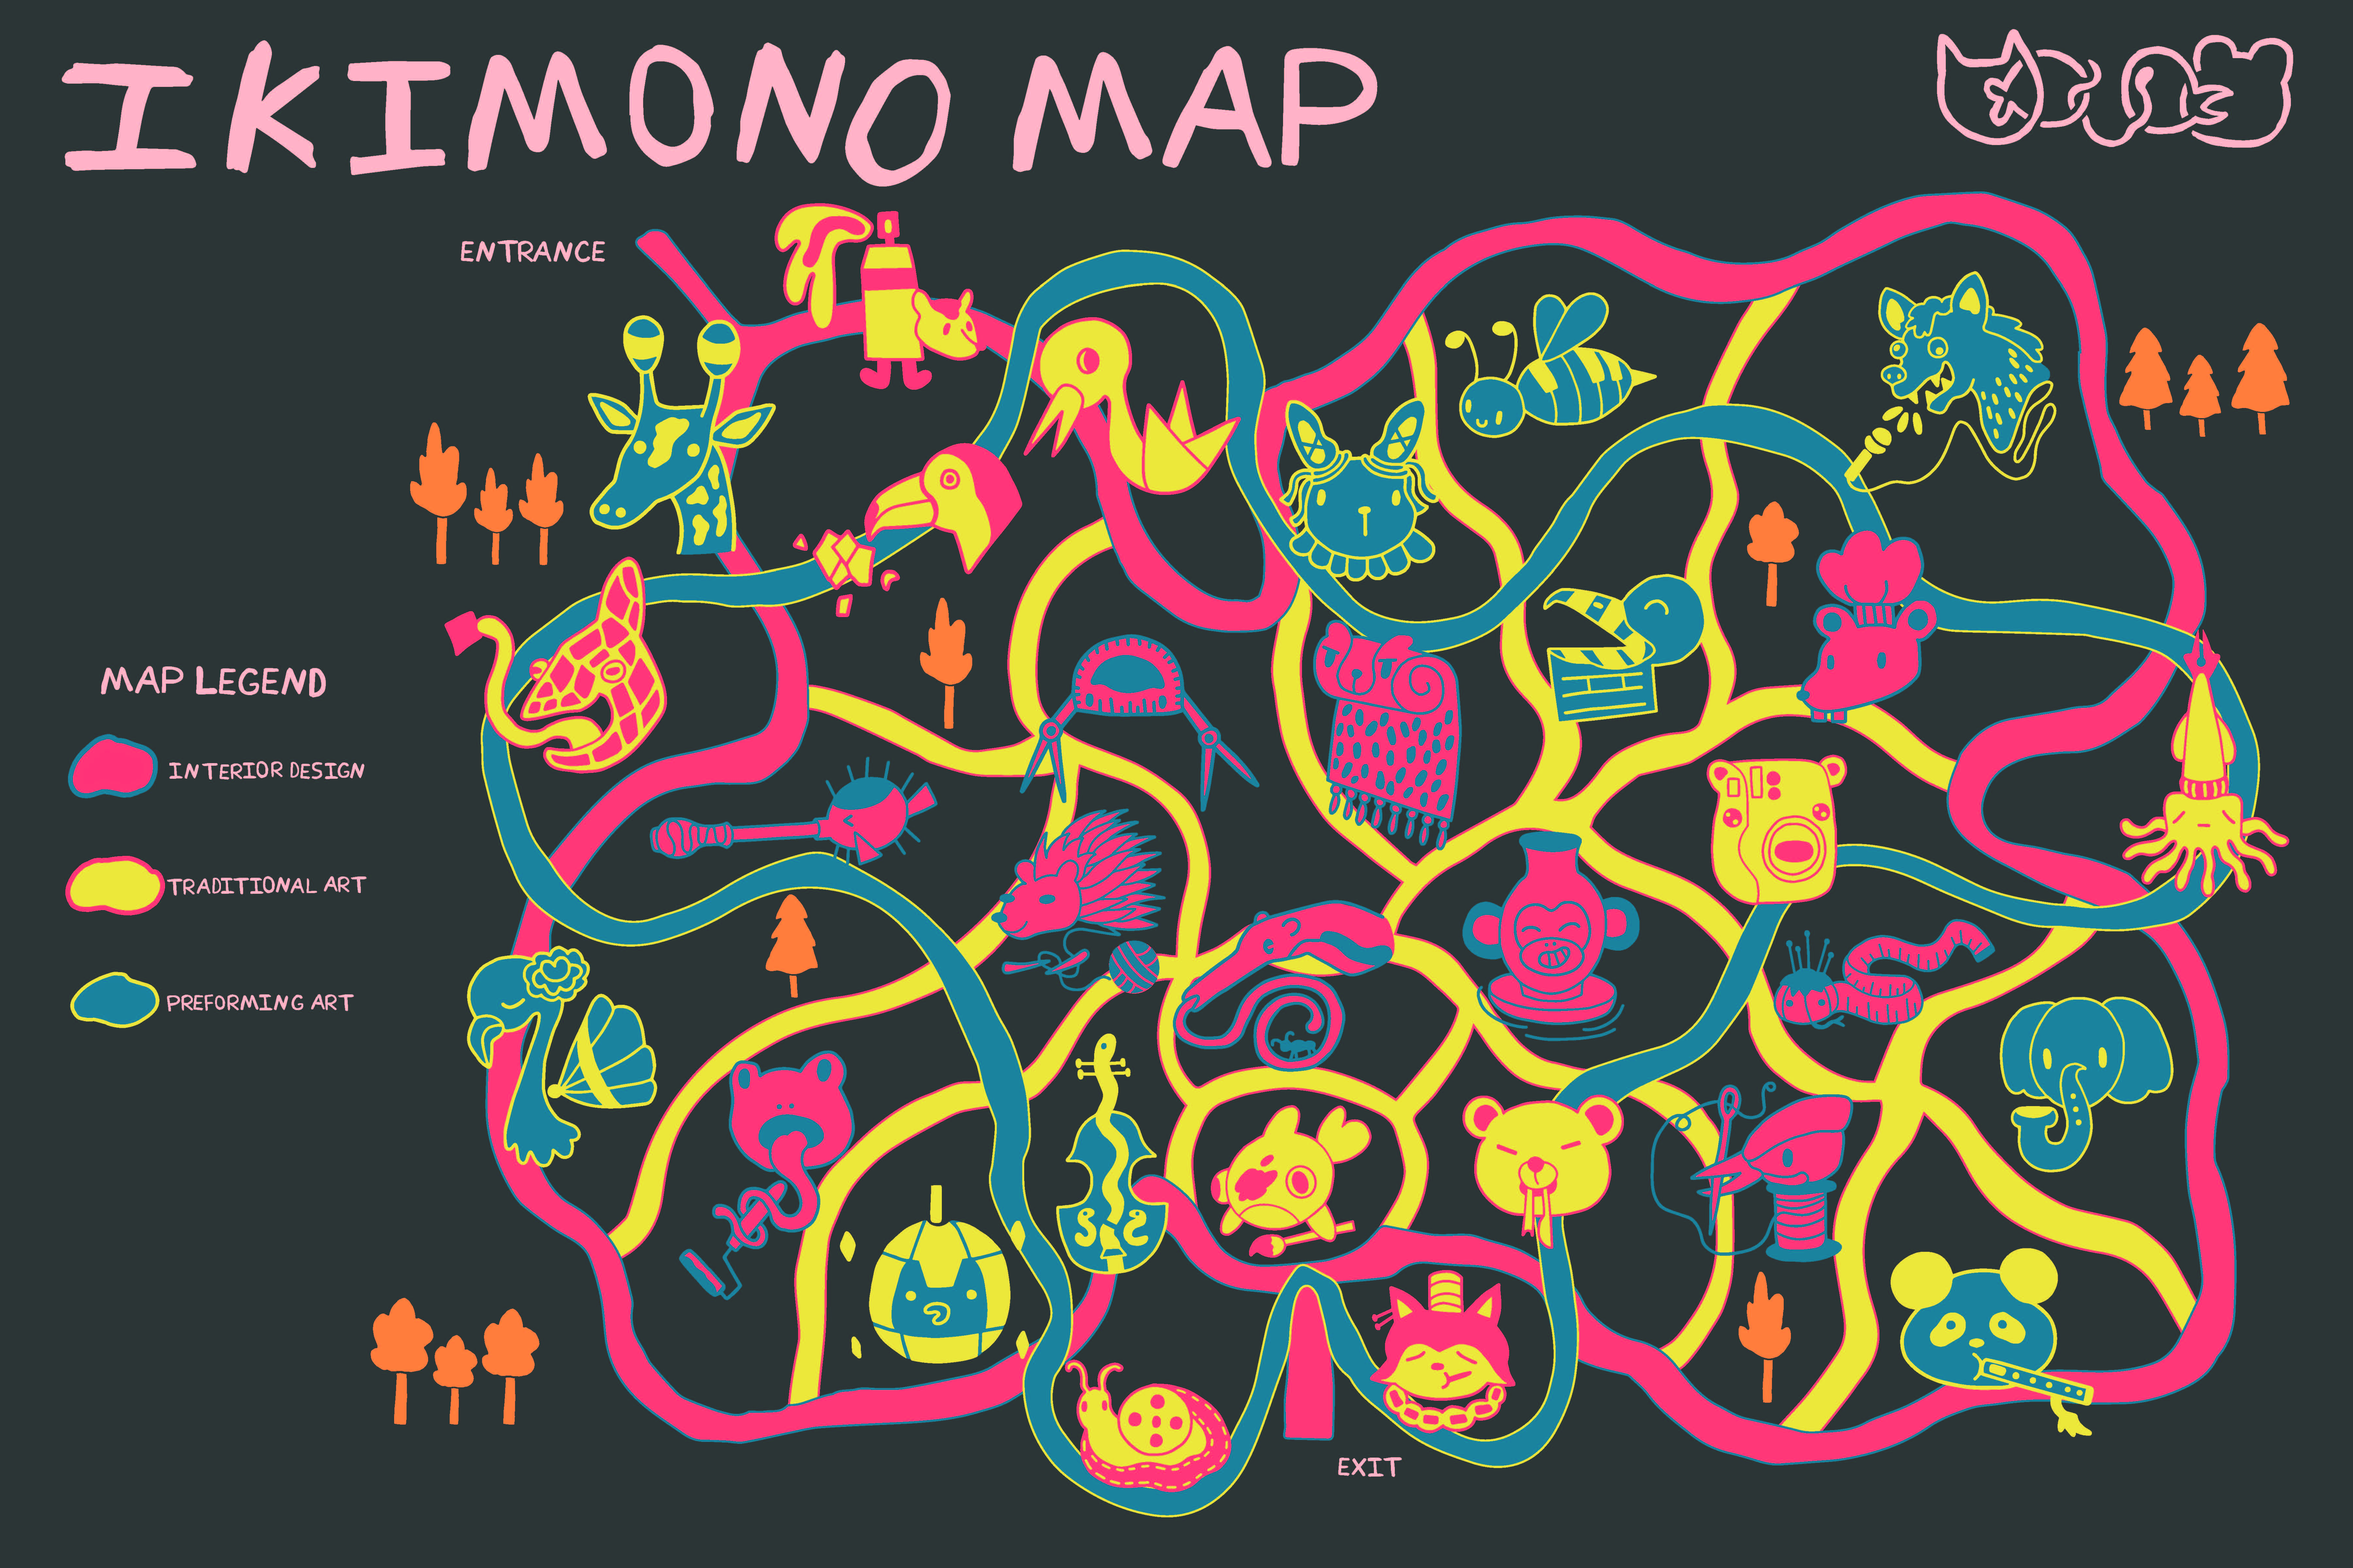
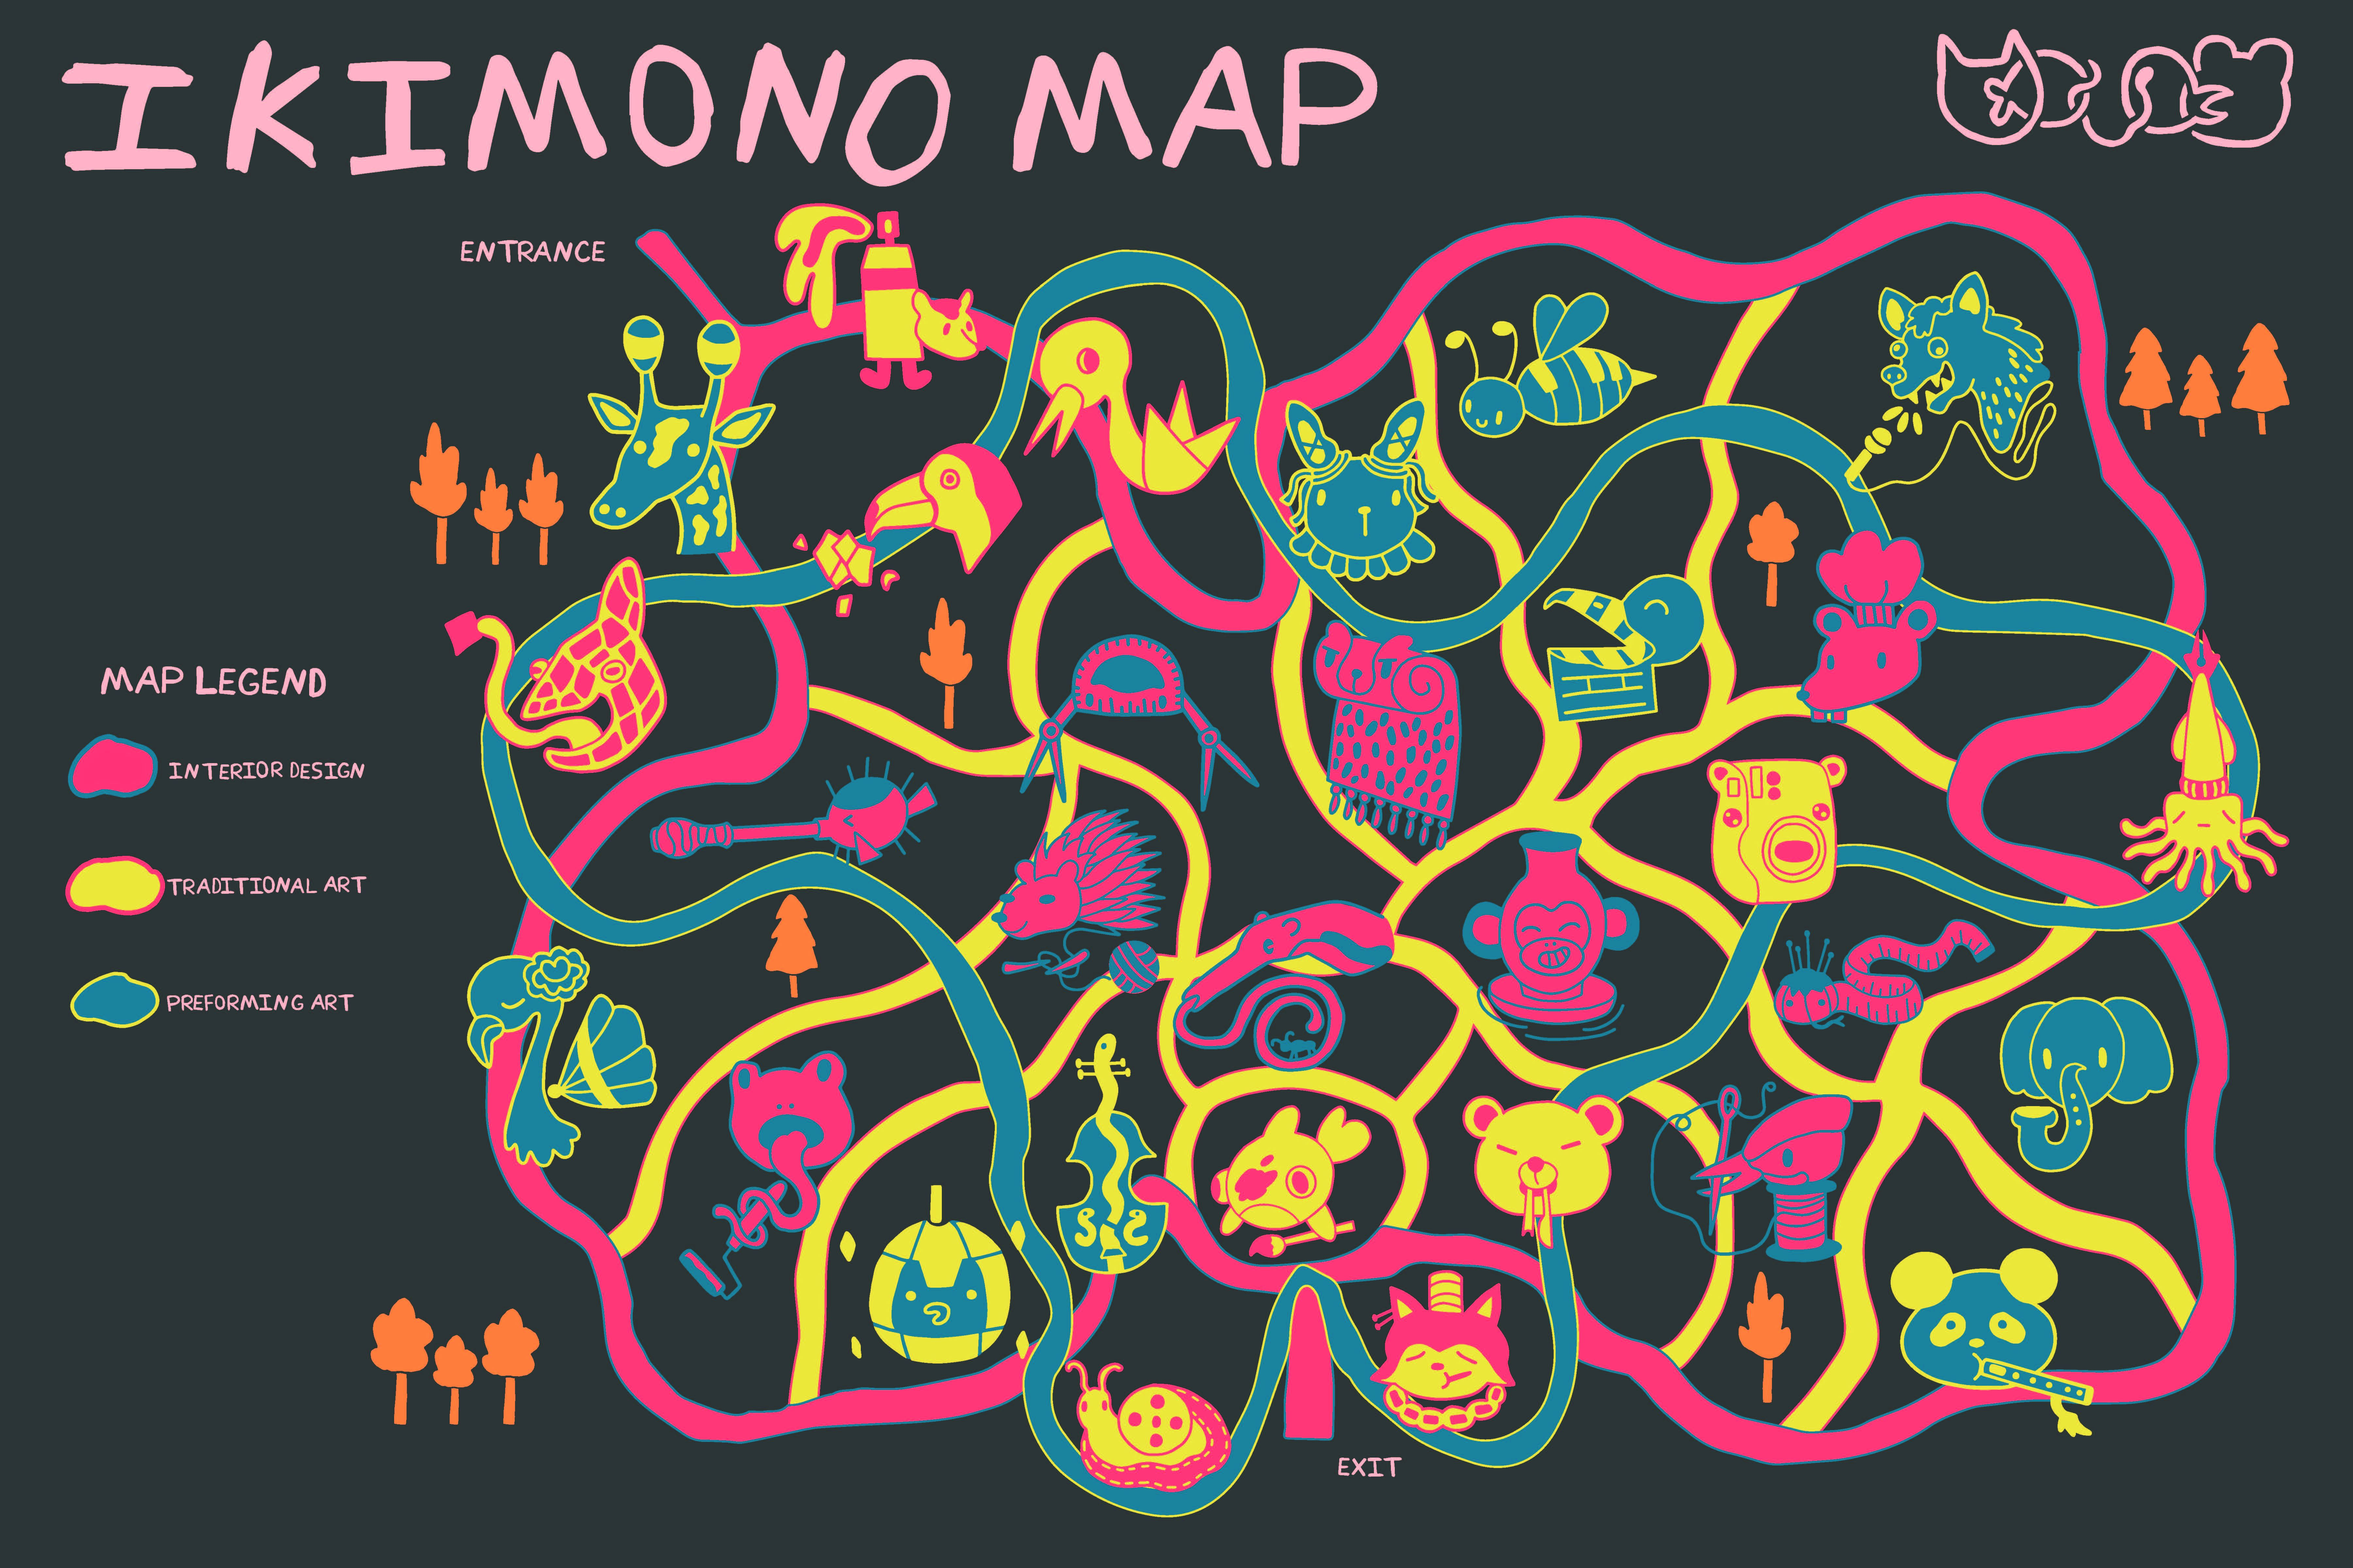
Optimizing Images

diff --git a/shop.html b/shop.html
@@ -44,7 +44,7 @@
 
         <div class="container1">
             <div class="imgcontainer1">
-                <img class="teacher" src="images/stick.png">
+                <img class="teacher" src="images/stick.jpg">
                 <div class="textplacement">
 
                     <p style="font-family:Courier;font-size: 18px"> Bisky Flavor Stickers - $4.00 </p>
@@ -53,7 +53,7 @@
                 </div>
             </div>
             <div class="imgcontainer2">
-                <img class="teacher" src="images/stick2.png">
+                <img class="teacher" src="images/stick2.jpg">
                 <div class="textplacement">
 
                     <p style="font-family:Courier;font-size: 18px"> Creature Stickers - $5.00 </p>
@@ -62,7 +62,7 @@
                 </div>
             </div>
             <div class="imgcontainer3">
-                <img class="teacher" src="images/stick3.png">
+                <img class="teacher" src="images/stick3.jpg">
                 <div class="textplacement">
 
                     <p style="font-family:Courier;font-size: 18px"> One Piece Stickers - $3.00 </p>
@@ -71,7 +71,7 @@
                 </div>
             </div>
             <div class="imgcontainer4">
-                <img class="teacher" src="images/stick4.png">
+                <img class="teacher" src="images/stick4.jpg">
 
                 <div class="textplacement">
 
@@ -83,7 +83,7 @@
         </div>
         <div class="container1">
             <div class="imgcontainer1">
-                <img class="teacher" src="images/stick5.png">
+                <img class="teacher" src="images/stick5.jpg">
                 <div class="textplacement">
 
                     <p style="font-family:Courier;font-size: 18px"> Pikmin Stickers - $5.00 </p>
@@ -92,7 +92,7 @@
                 </div>
             </div>
             <div class="imgcontainer2">
-                <img class="teacher" src="images/bag1.png">
+                <img class="teacher" src="images/bag1.jpg">
                 <div class="textplacement">
 
                     <p style="font-family:Courier;font-size: 18px"> Carrot Tote - $10.00 </p>
@@ -101,7 +101,7 @@
                 </div>
             </div>
             <div class="imgcontainer3">
-                <img class="teacher" src="images/bag2.png">
+                <img class="teacher" src="images/bag2.jpg">
                 <div class="textplacement">
 
                     <p style="font-family:Courier;font-size: 18px"> Egg Tote - $10.00 </p>

diff --git a/portfolio.html b/portfolio.html
@@ -44,7 +44,7 @@
     <div class="imgcontainer1">
 
 
-        <img class="portfolio1" src="images/myart.png">
+        <img class="portfolio1" src="images/myart.jpg">
 
 
     </div>
